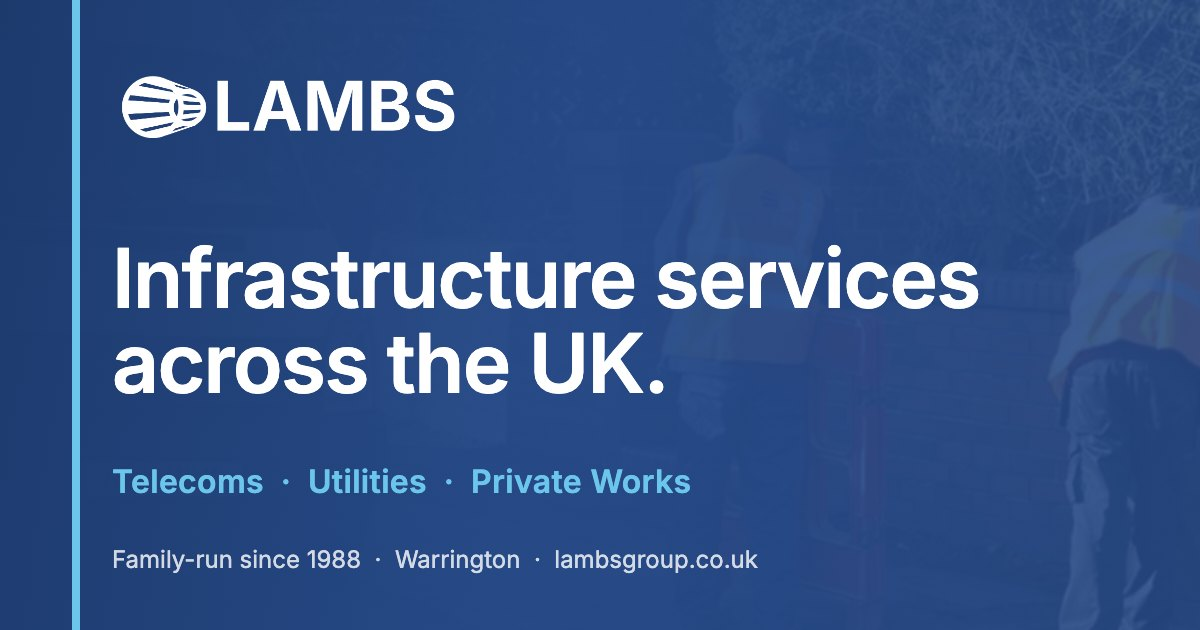
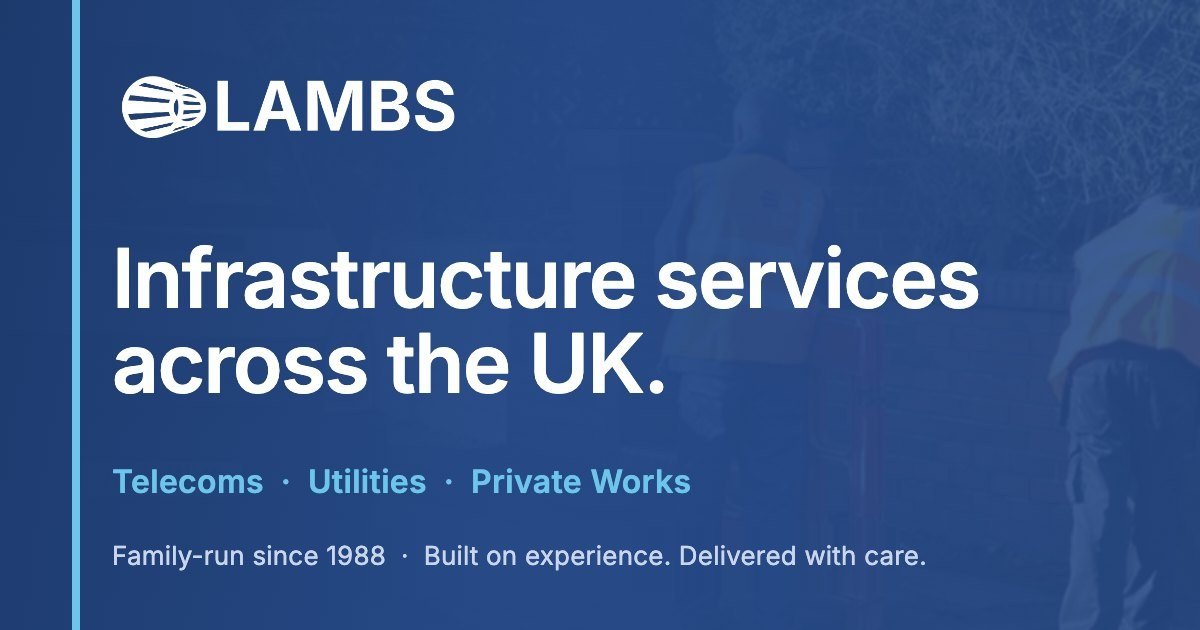
content: schema, llms.txt and link-preview image updated for new slogan; remove unused StatStrip

Changed region(s): [[0.0925, 0.8444, 0.7708, 0.9048]]

diff --git a/src/utils/schema.ts b/src/utils/schema.ts
@@ -44,7 +44,7 @@ const LINKEDIN = "https://www.linkedin.com/company/lambs-uk-civils-ltd/home/";
 const CRUMB_NAMES: Record<string, string> = {
   about: "About",
   careers: "Careers",
-  apply: "Send us your CV",
+  apply: "Register your interest",
   contact: "Contact",
   cookies: "Cookie Policy",
   "how-we-deliver": "How We Deliver",
@@ -55,7 +55,7 @@ const CRUMB_NAMES: Record<string, string> = {
   terms: "Website Terms of Use",
   utilities: "Utilities",
   work: "Our Work",
-  motif: "Virgin Media Motif",
+  motif: "Project experience",
 };
 
 const EMPLOYMENT: Record<string, string> = {
@@ -84,8 +84,8 @@ export function buildGraph(i: GraphInput) {
       name: "Lambs Group",
       alternateName: ["S Lamb Construction"],
       description:
-        "Family-run infrastructure contractor delivering telecoms, utilities and private works with skilled teams across its workforce since 1988.",
-      slogan: "Safely, compliantly, on programme.",
+        "Family-run infrastructure contractor delivering telecoms, utilities and private works, with civils and groundworks expertise at the heart of every project, since 1988.",
+      slogan: "Built on experience. Delivered with care.",
       url: i.siteRoot,
       logo: { "@type": "ImageObject", url: `${i.siteRoot}images/lambs-logo-v2.webp`, width: 1400, height: 241 },
       image: `${i.siteRoot}images/og-default.jpg`,
@@ -93,6 +93,7 @@ export function buildGraph(i: GraphInput) {
       founder: { "@type": "Person", name: "Simon Lamb", jobTitle: "Director" },
       telephone: "+441925810991",
       email: "contact@lambsgroup.co.uk",
+      // Current address; the planned move is not published until Lambs confirm the new one.
       address: {
         "@type": "PostalAddress",
         streetAddress: "Unit 26 Tatton Court, Kingsland Grange, Woolston",
@@ -105,6 +106,7 @@ export function buildGraph(i: GraphInput) {
       areaServed: regions,
       knowsAbout: [
         "Fibre optic network installation (FTTH and FTTP)",
+        "Fibre blowing and cabling",
         "Fibre splicing and testing",
         "Directional drilling and mole ploughing",
         "Water, gas and electricity mains and connections",
